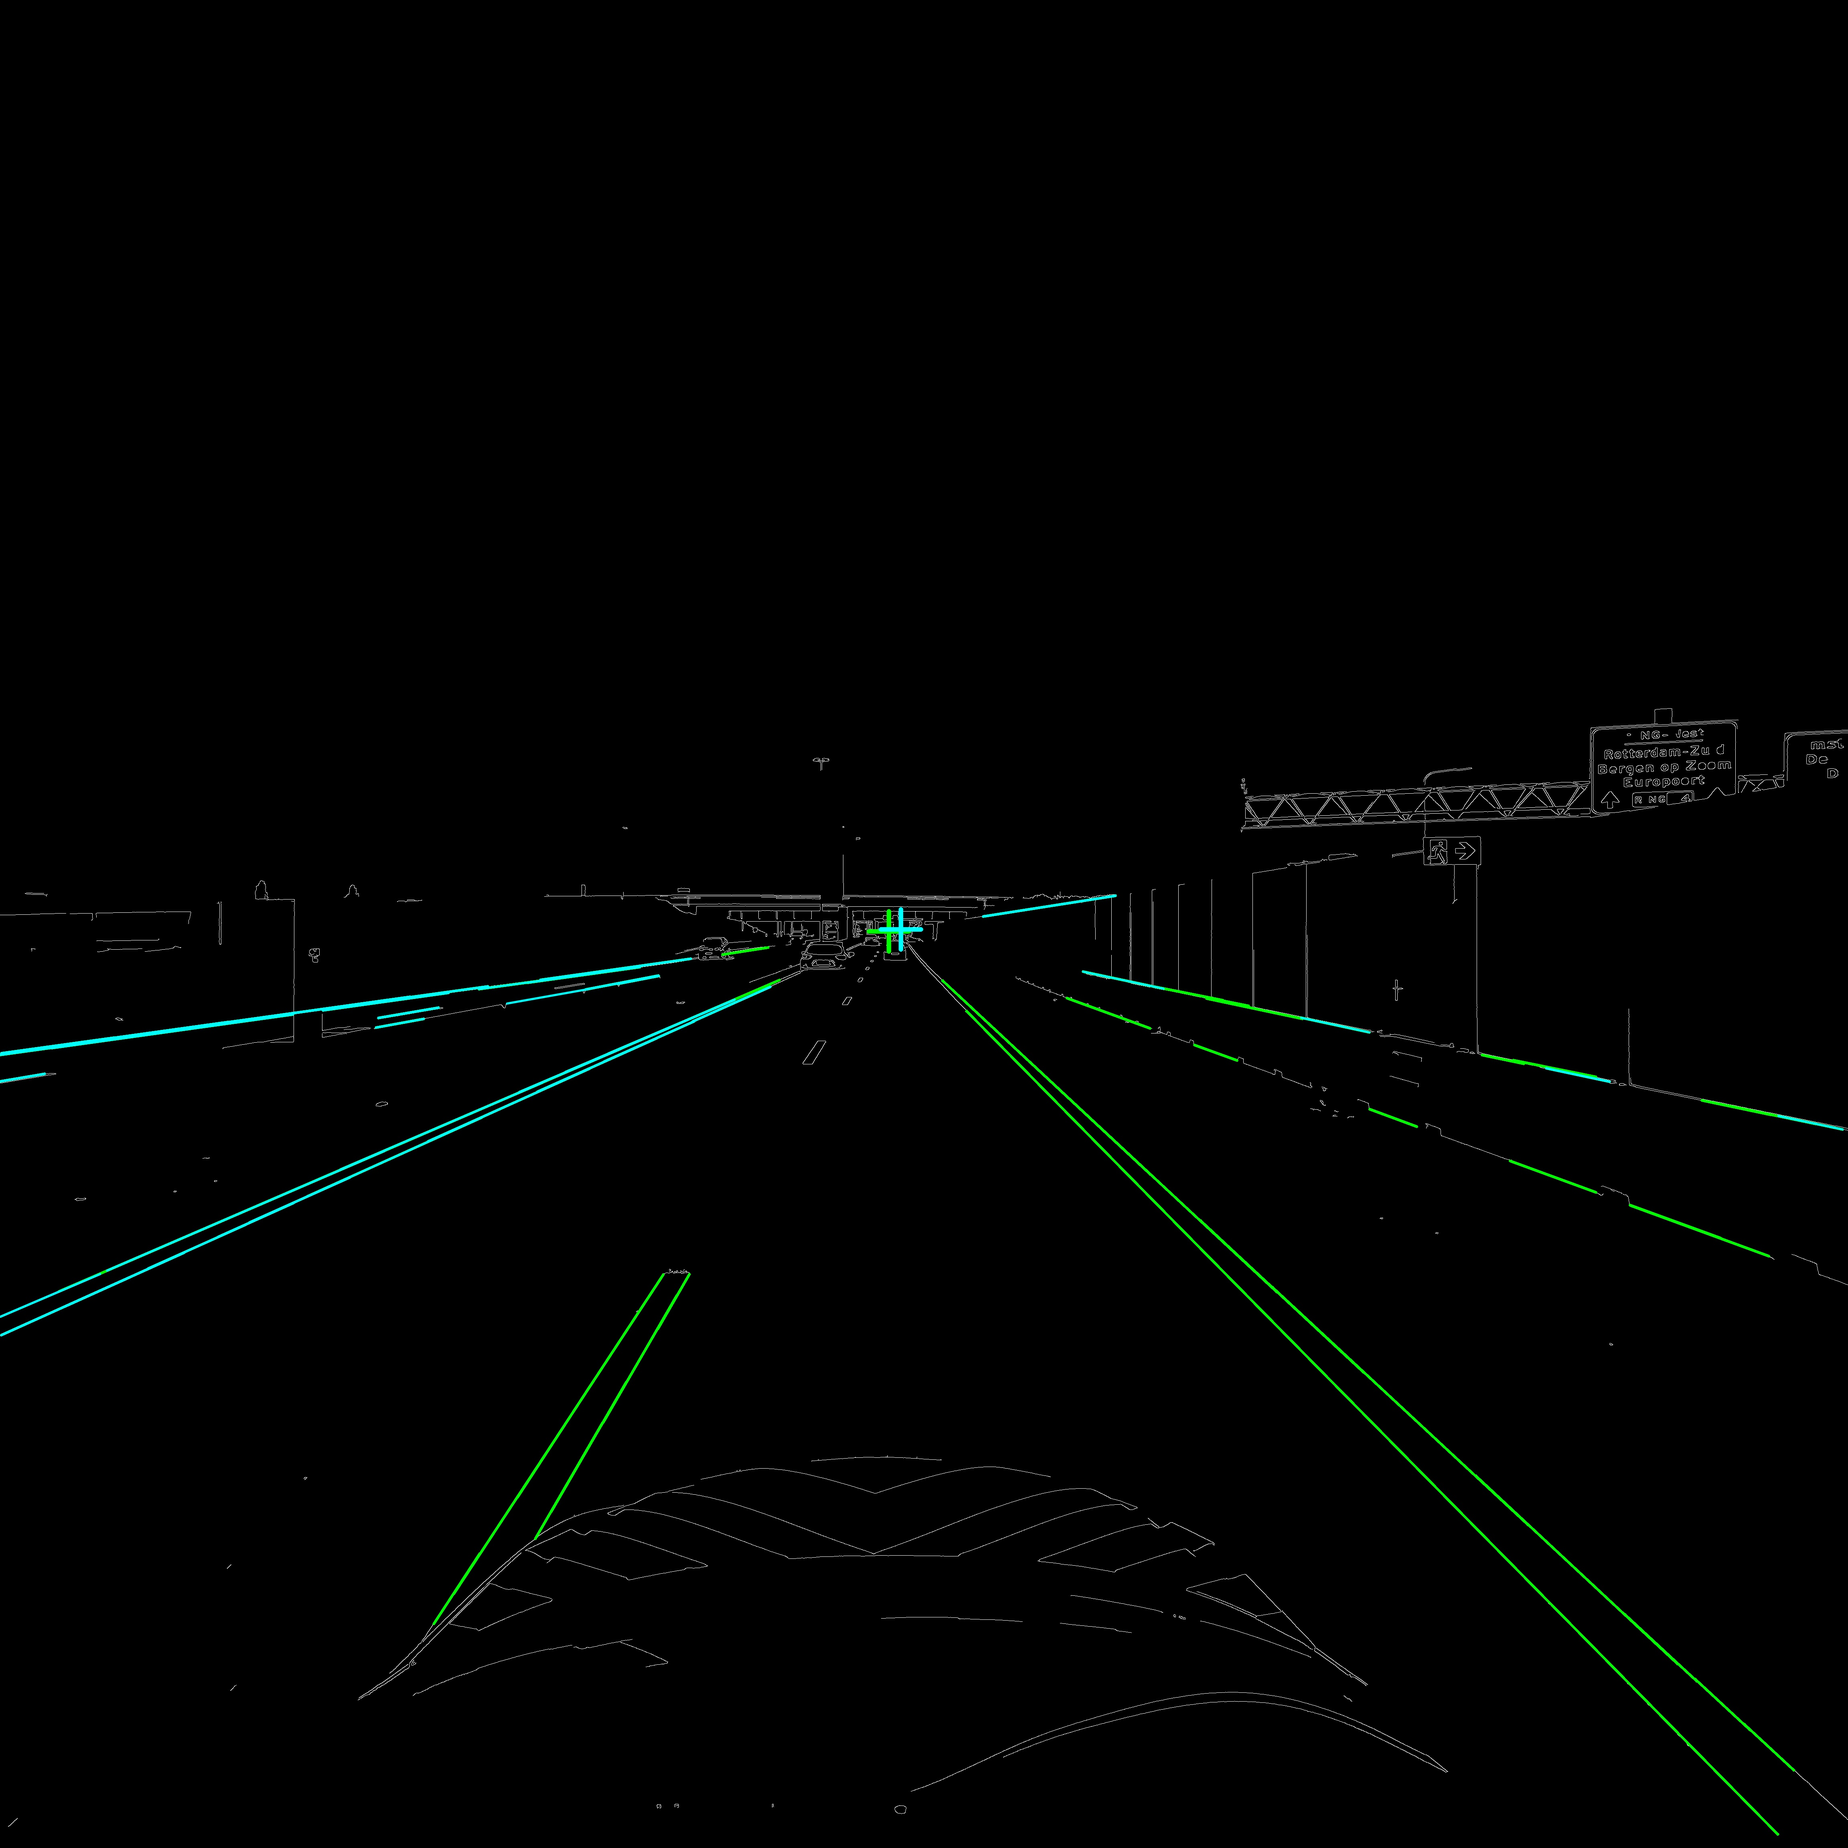
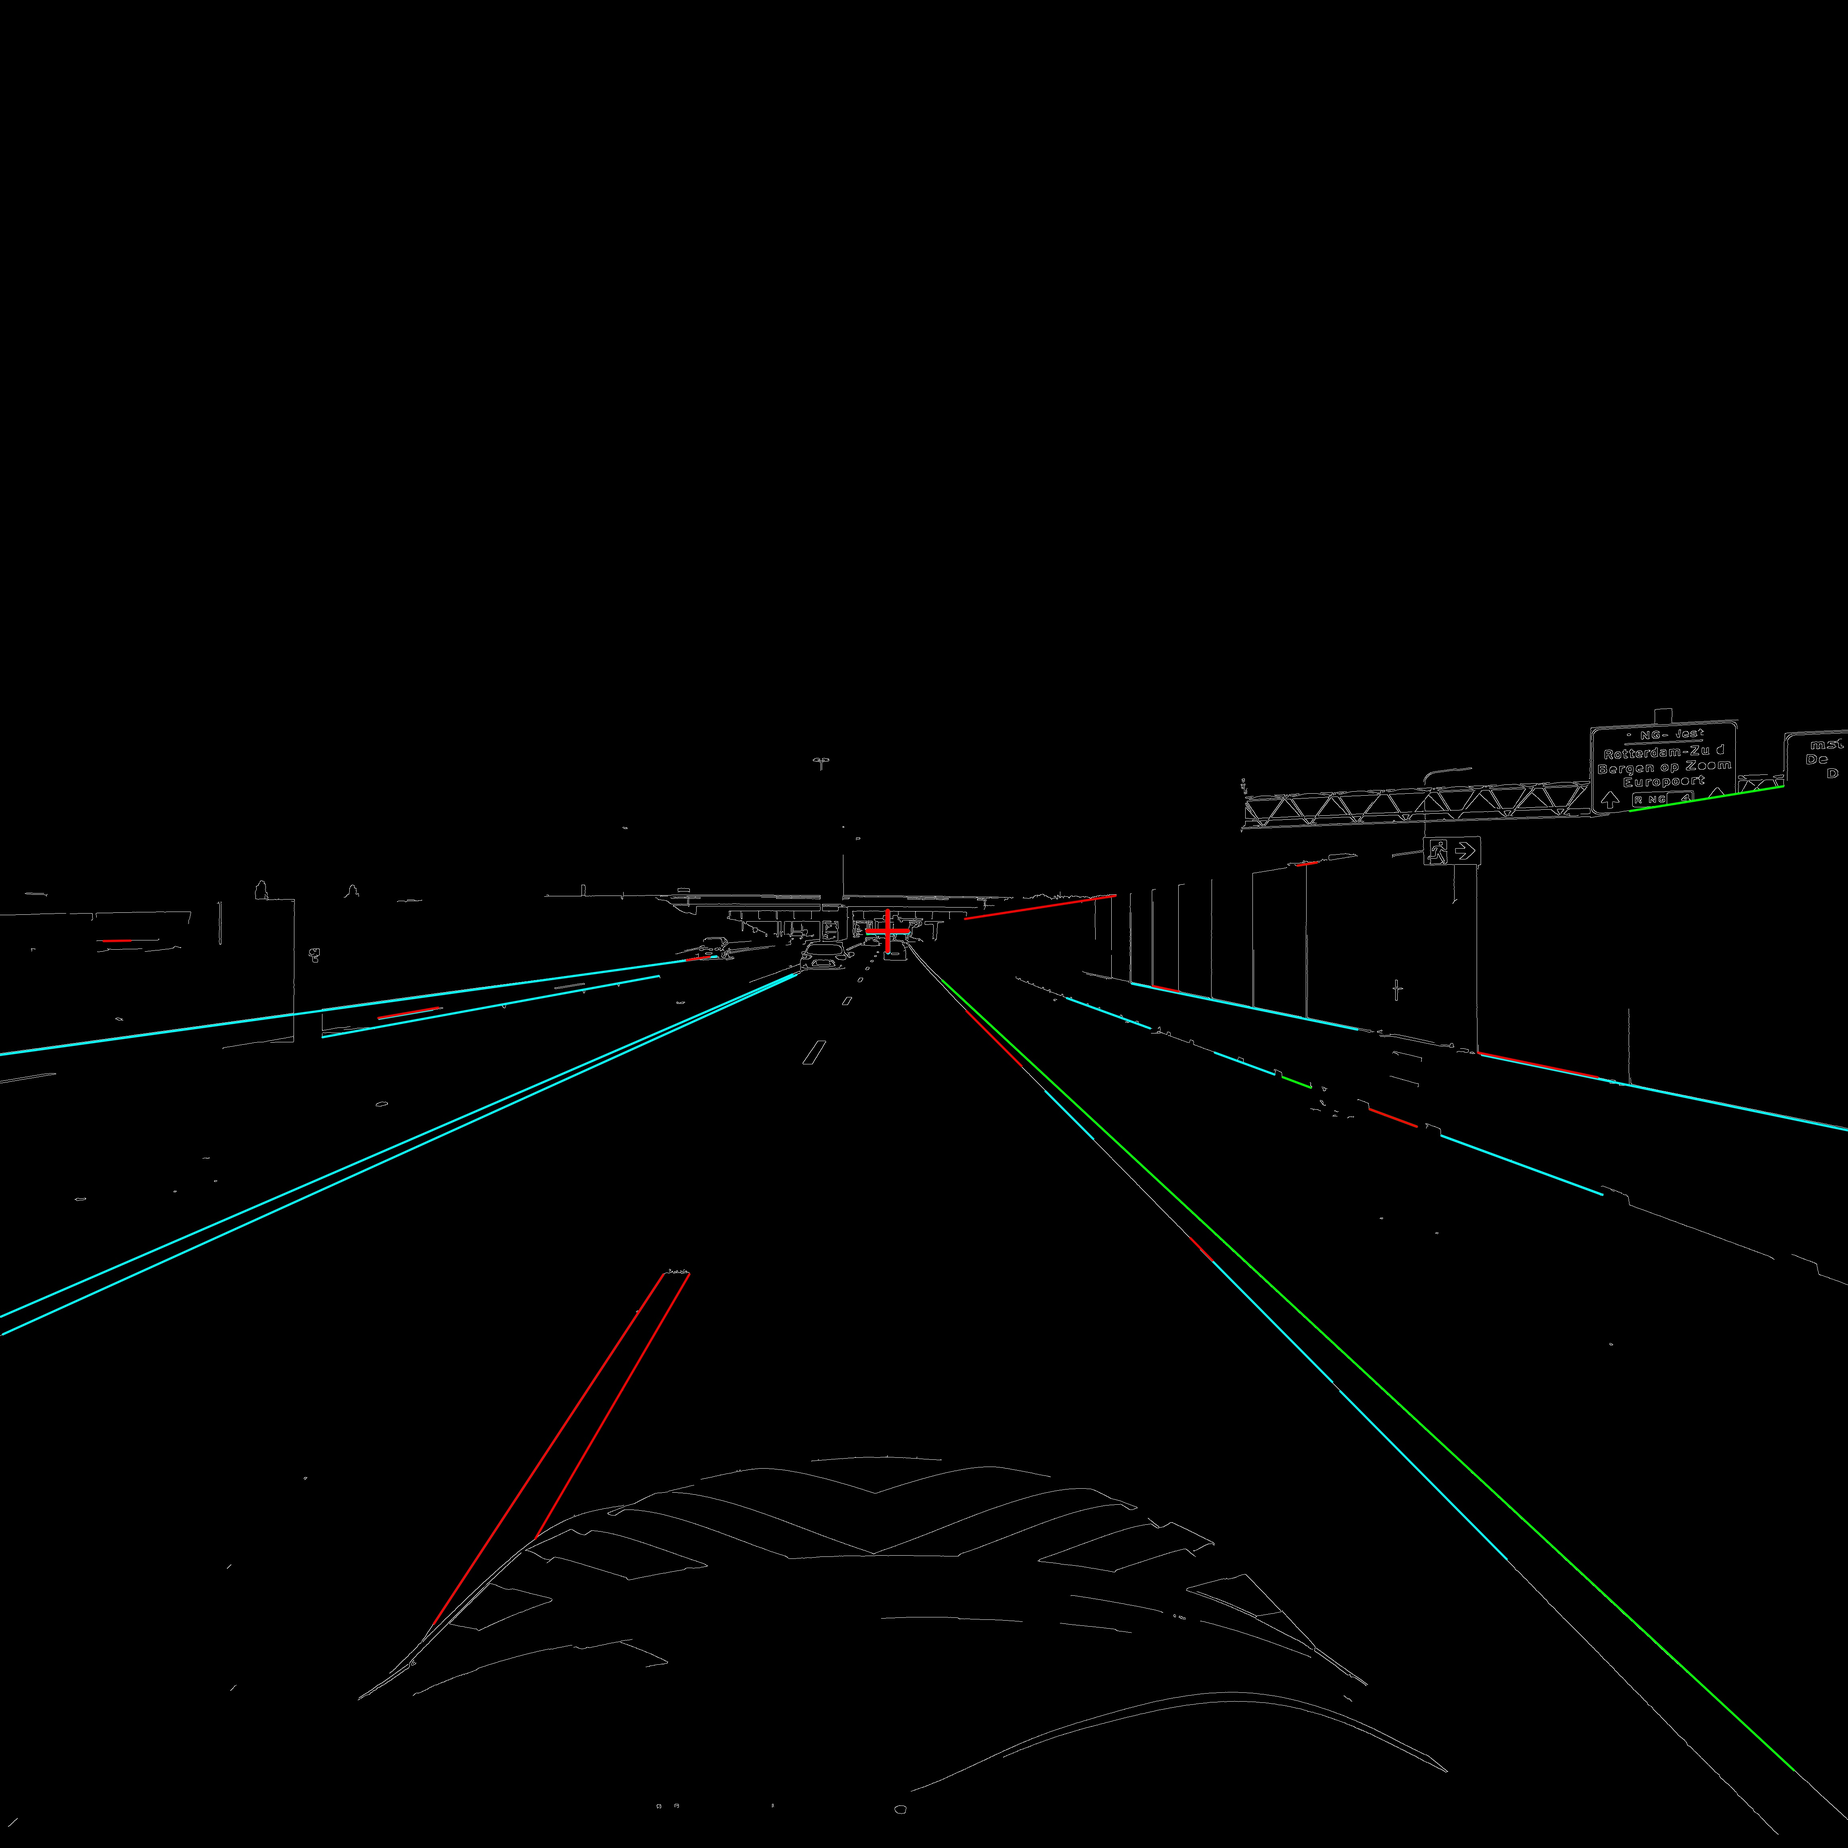
Algorithm Change

diff --git a/vanishing_pt.cpp b/vanishing_pt.cpp
@@ -24,17 +24,20 @@ float canny_highthreshold = canny_lowthreshold * 3;  //Canny’s recommendation 
 
 // hough transform
 int hough_threshold = 150; 		// [number of intersect] minimum number to agree to a line 
-int min_line_len = 100;	   		// [px] minimum detected length of line, bigger to avoid noise
+int min_line_len = 50;	   		// [px] minimum detected length of line, bigger to avoid noise
 int max_line_gap = 10;			// [px] max gap to differentiate lines, higher to get more continuous lines, slower
 
 // remove/merge line criteria
 float vertical_deg = 85;   		// [deg] filter out line angle bigger than this
-float merge_line_ang = 0.005;   	// [deg] intersect smaller than this angle 
-float merge_line_dist = 3; 	    // [px] orthogonal dist smaller than this distance 
+float merge_line_ang = 0.5;   	// [deg] intersect smaller than this angle 
+float merge_line_dist = 2; 	    // [px] orthogonal dist smaller than this distance 
+
+// voting for points
+int vote_dist = 5;  			// rough 
 
 // vanishing point criteria
-int vicinity = 10; 			    // [px] points lies within this vicinity of a proposed point are same cluster
-int min_ratio = 100; 			// [ratio of points] define vanishing points (cluster includes more than certain ratio of points), higher the less points
+int vicinity = 5; 			    // [px] points lies within this vicinity of a proposed point are same cluster (should be bigger than merge_line_dist)
+int min_ratio = 50; 			// [ratio of points] relate to avg line angles, 300 for 5DK, 50 for 5DL image
 
 // drawing colors: cyan, green, red, magenta, blue, yellow
 cv::Scalar colors[6] = {cv::Scalar(0,255,0), cv::Scalar(255,255,0), cv::Scalar(0,0,255), cv::Scalar(0,255,255) ,cv::Scalar(255,0,0), cv::Scalar(255,0,255)};
@@ -49,7 +52,10 @@ class LineSegment{
 	private: 
 		cv::Point left, right;  // end points of line segment
 		cv::Vec3f params;    	// 3 parameters a,b,c of line eq.
-		float m; 				//gradient m = -a/b
+		float m; 				//gradient m = -a/b (slope)
+
+		int vanishing_point = -1;	// agreed vanishing line, -1: unset
+		float vanishing_dist = -1;
 		
 	public:
 
@@ -75,7 +81,10 @@ class LineSegment{
 
 		};
 		
+		float get_angle(){
 		
+			return abs(atan2(right.y - left.y , abs(right.x - left.x)));
+		}
 		cv::Vec3f getlineparam(){
 			return params;
 		};
@@ -85,7 +94,24 @@ class LineSegment{
 		cv::Point rpoint(){
 			return right;
 		}
+		int get_vp(){
+			return vanishing_point;
+		}
 
+		void set_vp(int id, float dist){
+			vanishing_dist = dist;
+			vanishing_point = id;
+		}
+
+		bool vp_set(){
+			if (vanishing_point != -1){
+				return true;
+			}
+		}
+
+		float vp_dist(){
+			return vanishing_dist;
+		}
 
 		float crossangle(const LineSegment& l2){
 			return abs(atan2(l2.m-m, (1+m*l2.m)));
@@ -122,33 +148,71 @@ bool isEqual (const LineSegment& l1, const LineSegment& l2){
 	// orthogonal distance  |ax+by+c|/sqrt(a*a+b+b)
 	float dist = abs(l1.params[0] * l2.left.x + l1.params[1] * l2.left.y + l1.params[2])/sqrt(l1.params[0]*l1.params[0] + l1.params[1]*l1.params[1]);  
 	float dist2 = abs(l1.params[0] * l2.right.x + l1.params[1] * l2.right.y + l1.params[2])/sqrt(l1.params[0]*l1.params[0] + l1.params[1]*l1.params[1]); 
- 
-	if (max(dist, dist2) < merge_line_dist && ang < (merge_line_ang / 180 * CV_PI)){
+	
+	// y coordinate distance 
+	float ydist;
+	if (l1.left.y > l2.right.y){  //l1 is at right
+		ydist = l1.left.y - l2.right.y;
+	}else{
+		ydist = l2.left.y - l1.right.y;
+	}
+
+	if (max(dist, dist2) < merge_line_dist && ang < (merge_line_ang / 180 * CV_PI) && ydist < 2*max_line_gap){
 		return true;
 	}
 		return false;
 };
 
-class VanishingPoint{
+class CrossPoint{
 	private:
 		cv::Point p;
-		double residuals = 0;
+		int point_id;			 // in cps vector "after sort!"
+		int votes = 0;			 // lines roughly agree to the point
 		int line1_id, line2_id;  // the line combination
+		
+		bool vp = 0;		 	// if it's a vanishing point
+		vector<int> vp_lid;  	// all the lines strongly agree to this vanishing point
 		
 	public:
 	    // int group_id = -1;  // -1: ungrouped
-		VanishingPoint(cv::Point pt):
+		CrossPoint(cv::Point pt):
 			p(pt)
 		{ 
 			
 		}
 
-		void set_residuals(vector<LineSegment> lines){
-			// calculate accumulated point to line distances
+		void set_pointid(int id){  //its position aftering sorting
+			point_id = id;
+		}
+
+		void set_vp(){
+			vp = 1;
+		}
+
+		bool is_vp(){
+			return vp;
+		}
+
+		vector<int> get_vp_lid(){
+			return vp_lid;
+		}
+		
+		void add_vp_lid(int lineid){
+			vp_lid.push_back(lineid);
+		}
+
+		void remove_vp_lid(int lineid){
+			vector<int>::iterator it = find(vp_lid.begin(), vp_lid.end(), lineid);
+			vp_lid.erase(it);
+		}
+
+		void lines_vote(vector<LineSegment> lines){
+			
 			for (size_t k = 0; k < lines.size(); k++ ){
-				cv::Vec3f params = lines[k].getlineparam();
-				double a = params[0], b = params[1], c = params[2];
-				residuals += abs(a*p.x + b*p.y + c) / sqrt(a*a + b*b);
+				float dist = this->dist2line(lines[k]);
+				if (dist < vote_dist){
+					votes++;
+				}
 			}
 		}
 
@@ -159,14 +223,19 @@ class VanishingPoint{
 		int l1(){ return line1_id;}
 		int l2(){ return line2_id;}
 		
+		float dist2line(LineSegment l){
+			cv::Vec3f params = l.getlineparam();
+			double a = params[0], b = params[1], c = params[2];
+			return abs(a*p.x + b*p.y + c) / sqrt(a*a + b*b);
+		}
 
-		bool operator < (VanishingPoint& B){
-        	if (residuals < B.residuals) {
+		bool operator < (CrossPoint& B){
+        	if (votes > B.votes) {
             	return true;
         	}else return false;
 		}
 
-		double operator - (VanishingPoint& p2){
+		double operator - (CrossPoint& p2){
 		    double distance = sqrt((p2.p.x - p.x)*(p2.p.x - p.x)  + (p2.p.y - p.y)*(p2.p.y - p.y));
 		}
 		void draw(cv::Mat img, cv::Scalar color){
@@ -189,7 +258,7 @@ int main(int argc, char** argv) {
 	cv::Mat image_detected, image_reduced, image_result; // hough, merged, vanishing point 
 
 	//-----1. Preprocess Image-----
-	string filename = argv[1]; 
+	string filename = "5D4L1L1D_L.jpg";   //caution!!  5D4KVN2Y_R: min_ratio set to 300, 5D4L1L1D_L:50 (not good, need to find relation of image line angle to min_ratio)
 	image = cv::imread(filename, cv::IMREAD_COLOR);
 	if (!image.data) { return 0; }							// check img
 
@@ -227,7 +296,7 @@ int main(int argc, char** argv) {
 			line( image_detected, cv::Point(l[0], l[1]), cv::Point(l[2], l[3]), colors[2], 5, cv::LINE_AA);
 		}else{
 			LineSegment line(p_lines[i]);
-			line.draw(image_detected, colors[4]);
+			line.draw(image_detected, colors[1]);
 			detected_lines.push_back(line);
 		}
     }
@@ -245,6 +314,7 @@ int main(int argc, char** argv) {
 	}
 
 	// merge lines (find left-most, right-most points in same group -> new linesegments)
+	float avg_angle = 0;
 	for (size_t i = 0; i< lmap.size(); i++){  //each group
 		
 		cv::Point left_most(0, image.cols), right_most(0, 0);
@@ -260,9 +330,13 @@ int main(int argc, char** argv) {
 			}
 		}
 		LineSegment merged_line(cv::Vec4i(left_most.x, left_most.y, right_most.x, right_most.y));
+		avg_angle += merged_line.get_angle() * 180 / CV_PI;
 		merged_line.draw(image_reduced, colors[1]);
 		merged_lines.push_back(merged_line);
 	}
+	avg_angle/=merged_lines.size();
+	// calculate average line angle
+	
     
 	cv::namedWindow("Reduced", cv::WINDOW_NORMAL);		// draw 
  	cv::resizeWindow("Reduced", 800, 800);
@@ -272,9 +346,11 @@ int main(int argc, char** argv) {
 	
 	//-----4. Points Proposal & Sort-----
 	// points container
-	vector<VanishingPoint> vps;
+	vector<CrossPoint> cps;
+	int point_id = 0;
 	
 	// each intersection of two lines (i,j)
+	int ls = merged_lines.size();
     for( size_t i = 0; i < merged_lines.size(); i++ )
     {
 	  	cv::Point intersection;
@@ -283,79 +359,93 @@ int main(int argc, char** argv) {
 			intersection = merged_lines[i].crosspoint(merged_lines[j]);
 			
 			if (intersection.x > 0 && intersection.x < image.rows && intersection.y > 0 && intersection.y < image.cols){ // intersect within images
-				VanishingPoint vp(intersection);
-				vp.set_lines(i,j);
-				vp.set_residuals(merged_lines);  //(accumulated distance to all lines)
-				vps.push_back(vp);
+				CrossPoint cp(intersection);
+				cp.set_lines(i,j);
+				cp.lines_vote(merged_lines);  //(accumulated distance to all lines)
+				cps.push_back(cp);
+				point_id++;
 			}
 		}
     }
 	
 	// sort with residuals (i.e. first point = main vanishing point)
-	sort(vps.begin(), vps.end());
-	
+	sort(cps.begin(), cps.end());
+	for (size_t i = 0; i < cps.size(); i++){
+		cps[i].set_pointid(i);
+	}
 	
 	//----- 5. Find Vanishing Point (Clusters)-----
 	
 	/*  method: 
-		a. use first element in sorted "vps" as key point of the first cluster
-		b. loop thru all points in "vps", group points within vicinity to this cluster
+		a. use first element in sorted "cps" as key point of the first cluster
+		b. loop thru all points in "cps", group points within vicinity to this cluster
 		c. if cluster is big enough --> vanishing point
-		d. use next ungrouped point in "vps" and far from exsiting vanishing points
+		d. use next ungrouped point in "cps" and far from exsiting vanishing points
 		e. go to b and repeat, till no nextkey available
 	*/
 
-	// init point id(first element in vps)
+	// init point id(first element in cps)
 	int key = 0;	    	   // proposed key point
 	int nextkey = -1;   	   // next key (-1:not assigned)
 	vector<int> cluster_pid;   // store point id belong to this cluster, renew with key 
 	
-	int lastvp = key;		   // chosen vp id
-	int count = 0;			   // numbers of vanishing cluster
-	vector<int> chosedv_pid;   // all vanishing points id (big cluster)
+	int count = 0;			   	 // numbers of vanishing cluster
+	vector<int> vanishing_pid;   // all vanishing points id (big cluster)
 	
 	while(key != -1){ // if the key is not assigned (exhausted thru points)
 		
-		chosedv_pid.push_back(lastvp);
 		
-		for (size_t j = key+1; j < vps.size(); j++){  
-			double dist = vps[j] - vps[key];   //current point dist to current key
+		for (size_t j = key+1; j < cps.size(); j++){  
+			double dist = cps[j] - cps[key];   //current point dist to current key
 			
 			if (dist < vicinity){ 
-				
 				cluster_pid.push_back(j);
-
 			}else if (nextkey == -1){ 
-				bool pass = 1;
-				double dist_to_p = 0;
-				for(size_t k = 0; k < chosedv_pid.size(); k++){ 
-					dist_to_p = vps[j] - vps[chosedv_pid[k]];	// current key to previous vanishing points
-					if (dist_to_p < 3*vicinity){			// if too close to any of the previous points, do not propose as next key point 
-						pass = 0;
-						break;
-					}
-				}
-				if (pass == 1){	// propose as next key point
-					nextkey = j;
-				}
+				nextkey = j;	
 			}
 		}
+		int s = cluster_pid.size();
+		if(cluster_pid.size() > cps.size()/min_ratio){  // when the cluster size is large enough -> vanishing point
+			cps[key].set_vp();
+			vanishing_pid.push_back(key);
 
-		if(cluster_pid.size() > (vps.size()/min_ratio)){  // when the cluster size is large enough -> vanishing point
-			
-			vps[key].draw(image_result, colors[count%6]);
-			merged_lines[vps[key].l1()].draw(image_result, colors[count%6]);
-			merged_lines[vps[key].l2()].draw(image_result, colors[count%6]);
+			// all points in cluster
+			for (size_t i = 0; i < cluster_pid.size(); i++){
+				// two lines
+				int l1 = cps[cluster_pid[i]].l1();
+				int l2 = cps[cluster_pid[i]].l2();
+				
+				// key point distance to these lines
+				float dist1 = cps[key].dist2line(merged_lines[l1]);
+				float dist2 = cps[key].dist2line(merged_lines[l2]);
 
-			for (size_t j = 0; j < cluster_pid.size(); j++){
-			   merged_lines[vps[cluster_pid[j]].l1()].draw(image_result, colors[count%6]);
-			   merged_lines[vps[cluster_pid[j]].l2()].draw(image_result, colors[count%6]);
-			   
+				// update line1
+				if (!merged_lines[l1].vp_set()){	// if the line not assigned to any vp yet
+					merged_lines[l1].set_vp(key, dist1);
+					cps[key].add_vp_lid(l1);
+				}else if(dist1 < merged_lines[l1].vp_dist()){
+					cps[merged_lines[l1].get_vp()].remove_vp_lid(l1); // remove from the previous agreed vp
+					cps[key].add_vp_lid(l1);
+					merged_lines[l1].set_vp(key, dist1);
+				}
+				// update line2
+				if (!merged_lines[l2].vp_set()){	// if the line not assigned to any vp yet
+					merged_lines[l2].set_vp(key, dist2);
+					cps[key].add_vp_lid(l2);
+				}else if(dist1 < merged_lines[l2].vp_dist()){
+					cps[merged_lines[l2].get_vp()].remove_vp_lid(l2); // remove from the previous agreed vp
+					cps[key].add_vp_lid(l2);
+					merged_lines[l2].set_vp(key, dist2);
+				}
+
 			}
-			lastvp = key;
+
+			
+
 			count++;
 		}
-		
+
+			
 		// update
 		
 		key = nextkey;
@@ -364,7 +454,21 @@ int main(int argc, char** argv) {
 		
 	}
 	
+	// draw for all vpoint
+		for (size_t i = 0; i < vanishing_pid.size(); i++){
+			int pid =vanishing_pid[i];
+			vector<int> lid = cps[pid].get_vp_lid();
+			
+			// itself and its line
+			cps[pid].draw(image_result, colors[i%6]);
+			merged_lines[cps[pid].l1()].draw(image_result, colors[i%6]);
+			merged_lines[cps[pid].l2()].draw(image_result, colors[i%6]);
 
+			// other lines agree to it
+			for (size_t j = 0; j < lid.size(); j++){
+				merged_lines[lid[j]].draw(image_result, colors[i%6]);
+			}
+		}
 	//****************************************************************************
 	//  Logs
 	//****************************************************************************
@@ -377,8 +481,8 @@ int main(int argc, char** argv) {
 	cout << "reduced lines (after merging): " << merged_lines.size()<< endl;
 	cout << endl;
 	cout << "-----------Vanishing Points-----------"<< endl;
-	cout << "proposed points: " << vps.size()<<endl;
-	cout << "clusters > 1/" << min_ratio <<" points agrees ( "<< vps.size()/min_ratio <<" points lies in ± "<< vicinity <<" px range of center): " << count <<endl;
+	cout << "proposed points: " << cps.size()<<endl;
+	cout << "clusters > 1/" << min_ratio <<" points agrees ( "<< cps.size()/min_ratio <<" points lies in ± "<< vicinity <<" px range of center): " << count <<endl;
 	
 
 	cv::namedWindow("Result", cv::WINDOW_NORMAL);
